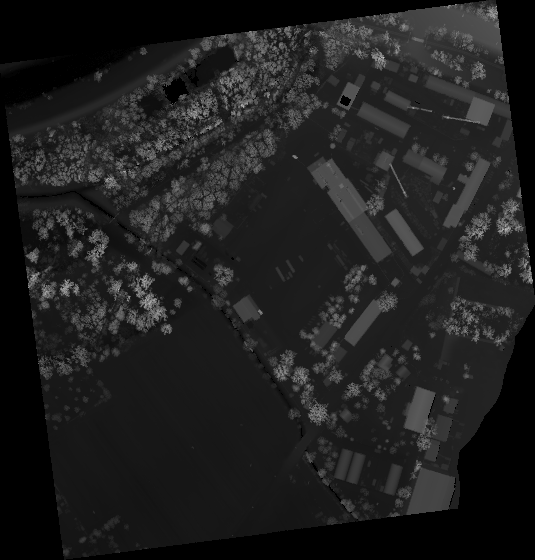
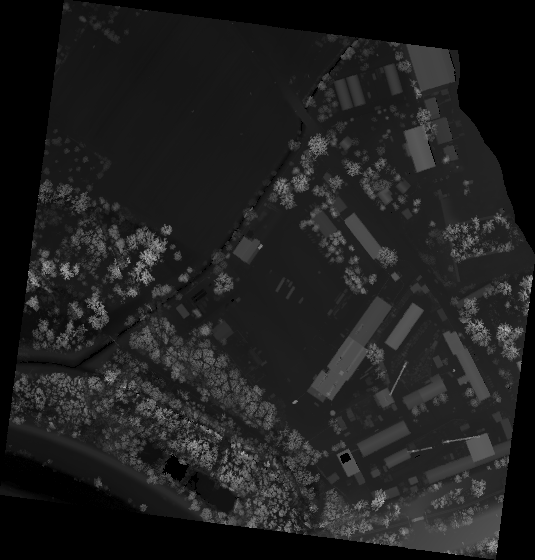
Code fixes, maps

diff --git a/maps.html b/maps.html
@@ -1,0 +1,28 @@
+<!-- <!DOCTYPE html> -->
+<html>
+  <header>
+    <meta charset="utf-8" />
+    <title>Mapy.cz</title>
+    <script type="text/javascript" src="https://api.mapy.cz/loader.js"></script>
+    <script type="text/javascript">Loader.load();</script>
+  </header>
+  <body>
+    <div id="m" style="height:100%"></div>
+
+    <script>
+        var center = SMap.Coords.fromWGS84(18.5234, 49.8525);
+        var m = new SMap(JAK.gel("m"), center, 13);
+        m.addDefaultLayer(SMap.DEF_BASE).enable();
+        m.addDefaultControls();
+
+        var layer = new SMap.Layer.Image();
+        m.addLayer(layer);
+        layer.enable();
+
+        var leftTop = SMap.Coords.fromWGS84(18.519788911122806, 49.855760761802635);
+        var rightBottom = SMap.Coords.fromWGS84(18.526560908463, 49.85034743572127);
+
+        layer.addImage("out.png", leftTop, rightBottom, 0.9);
+    </script>
+  </body>
+</html>

diff --git a/src/main.cpp b/src/main.cpp
@@ -3,7 +3,7 @@
 #include <limits>
 #include <tuple>
 #include <fstream>
-
+#include <functional>
 #include <cmath>
 
 #include <opencv2/opencv.hpp>
@@ -170,7 +170,8 @@ void fill_image(
         float min_y,
         float max_y,
         float min_z,
-        float max_z
+        float max_z,
+        const std::function<bool(int)>& ltype_pred
     ) {
     int delta_x, delta_y, delta_z;
     float fx, fy, fz;
@@ -205,8 +206,12 @@ void fill_image(
         is.read((char*)&fz, 4);
         is.read((char*)&l_type, 4);
 
+        if (not ltype_pred(l_type)) {
+            continue;
+        }
+
         const size_t px = (fx - min_x) / delta_x * heightmap_8uc1_img.cols;
-        const size_t py = (fy - min_y) / delta_y * heightmap_8uc1_img.rows;
+        const size_t py = heightmap_8uc1_img.rows - 1 - ((fy - min_y) / delta_y * heightmap_8uc1_img.rows);
 
         pixels[py][px].sum += fz;
         ++pixels[py][px].count;
@@ -217,70 +222,6 @@ void fill_image(
             const auto avg = pixels[y][x].avg();
             const uchar norm = (avg - min_z) / delta_z * 255;
             heightmap_8uc1_img.at<uchar>(y, x) = norm;
-        }
-    }
-}
-
-void fill_image_with_ltype(
-        const std::string& filename,
-        cv::Mat& dest,
-        const float min_x,
-        const float max_x,
-        const float min_y,
-        const float max_y,
-        const float min_z,
-        const float max_z,
-        const int ltype
-    ) {
-    int delta_x, delta_y, delta_z;
-    float fx, fy, fz;
-    int l_type;
-    
-    struct Pixel {
-        float sum = 0;
-        uint64_t count = 0;
-
-        auto avg() const {
-            return sum / count;
-        }
-    };
-
-    std::vector<std::vector<Pixel>> pixels;
-    pixels.reserve(dest.rows);
-
-    for (int i = 0; i < dest.rows; ++i) {
-        pixels.emplace_back(dest.cols, Pixel{});
-    }
-
-    // zjistime sirku a vysku obrazu
-    delta_x = round(max_x - min_x + 0.5f);
-    delta_y = round(max_y - min_y + 0.5f);
-    delta_z = round(max_z - min_z + 0.5f);
-
-    std::ifstream is { filename, std::ios::binary };
-
-    while (is) {
-        is.read((char*)&fx, 4);
-        is.read((char*)&fy, 4);
-        is.read((char*)&fz, 4);
-        is.read((char*)&l_type, 4);
-
-        if (l_type != ltype) {
-            continue;
-        }
-
-        const size_t px = (fx - min_x) / delta_x * dest.cols;
-        const size_t py = (fy - min_y) / delta_y * dest.rows;
-
-        pixels[py][px].sum += fz;
-        ++pixels[py][px].count;
-    }
-
-    for (int y = 0; y < dest.rows; ++y) {
-        for (int x = 0; x < dest.cols; ++x) {
-            const auto avg = pixels[y][x].avg();
-            const uchar norm = (avg - min_z) / delta_z * 255;
-            dest.at<uchar>(y, x) = norm;
         }
     }
 }
@@ -401,7 +342,9 @@ void process_lidar(
 
     printf("Image w=%d, h=%d\n", heightmap_8uc1_img.cols, heightmap_8uc1_img.rows);
 
-    fill_image(bin_filename, heightmap_8uc1_img, min_x, max_x, min_y, max_y, min_z, max_z);
+    fill_image(bin_filename, heightmap_8uc1_img, min_x, max_x, min_y, max_y, min_z, max_z,
+            [](int) -> auto { return true; });
+
     cv::cvtColor(heightmap_8uc1_img, heightmap_show_8uc3_img, cv::COLOR_GRAY2RGB);
 
     make_edges(heightmap_8uc1_img, edgemap_8uc1_img);
@@ -422,12 +365,12 @@ void process_lidar(
             cv::Size { cvRound(delta_x + 0.5f), cvRound(delta_y + 0.5f) },
             CV_8UC1 };
 
-    fill_image_with_ltype(
-            bin_filename, fst_reflect, min_x, max_x, min_y, max_y, min_z, max_z, 0);
-    fill_image_with_ltype(
-            bin_filename, vegetation, min_x, max_x, min_y, max_y, min_z, max_z, 1);
-    fill_image_with_ltype(
-            bin_filename, beneath_veg, min_x, max_x, min_y, max_y, min_z, max_z, 2);
+    fill_image(bin_filename, fst_reflect, min_x, max_x, min_y, max_y, min_z, max_z,
+            [](const int ltype) -> auto { return ltype == 0; });
+    fill_image(bin_filename, vegetation, min_x, max_x, min_y, max_y, min_z, max_z,
+            [](const int ltype) -> auto { return ltype == 1; });
+    fill_image(bin_filename, beneath_veg, min_x, max_x, min_y, max_y, min_z, max_z,
+            [](const int ltype) -> auto { return ltype == 2; });
 
     while (1) {
         cv::imshow(step1_win_name, heightmap_show_8uc3_img);

diff --git a/convert/convert.py b/convert/convert.py
@@ -1,0 +1,24 @@
+import pyproj
+
+
+class GeoConverter:
+    def __init__(self):
+        self.sjtsk = pyproj.Proj(
+                's-jtsk: + proj = krovak + ellps = bessel + ' +
+                'towgs84 = 570.8,85.7,462.8,4.998,1.587,5.261,3.56'
+                )
+        self.wgs84 = pyproj.Proj(
+                'wgs84: + proj = longlat + ellps = WGS84 + datum ' +
+                '= WGS84 + no_defs')
+
+    def convert(self, x, y) -> tuple[float, float]:
+        lon, lat = pyproj.transform(self.sjtsk, self.wgs84, x, y)
+        return lat, lon
+
+
+if __name__ == '__main__':
+    converter = GeoConverter()
+    lat, lon = converter.convert(-453462.187500, -1101354.750000)
+    print(lat, lon)
+    lat, lon = converter.convert(-452927.250000, -1100794.750000)
+    print(lat, lon)
